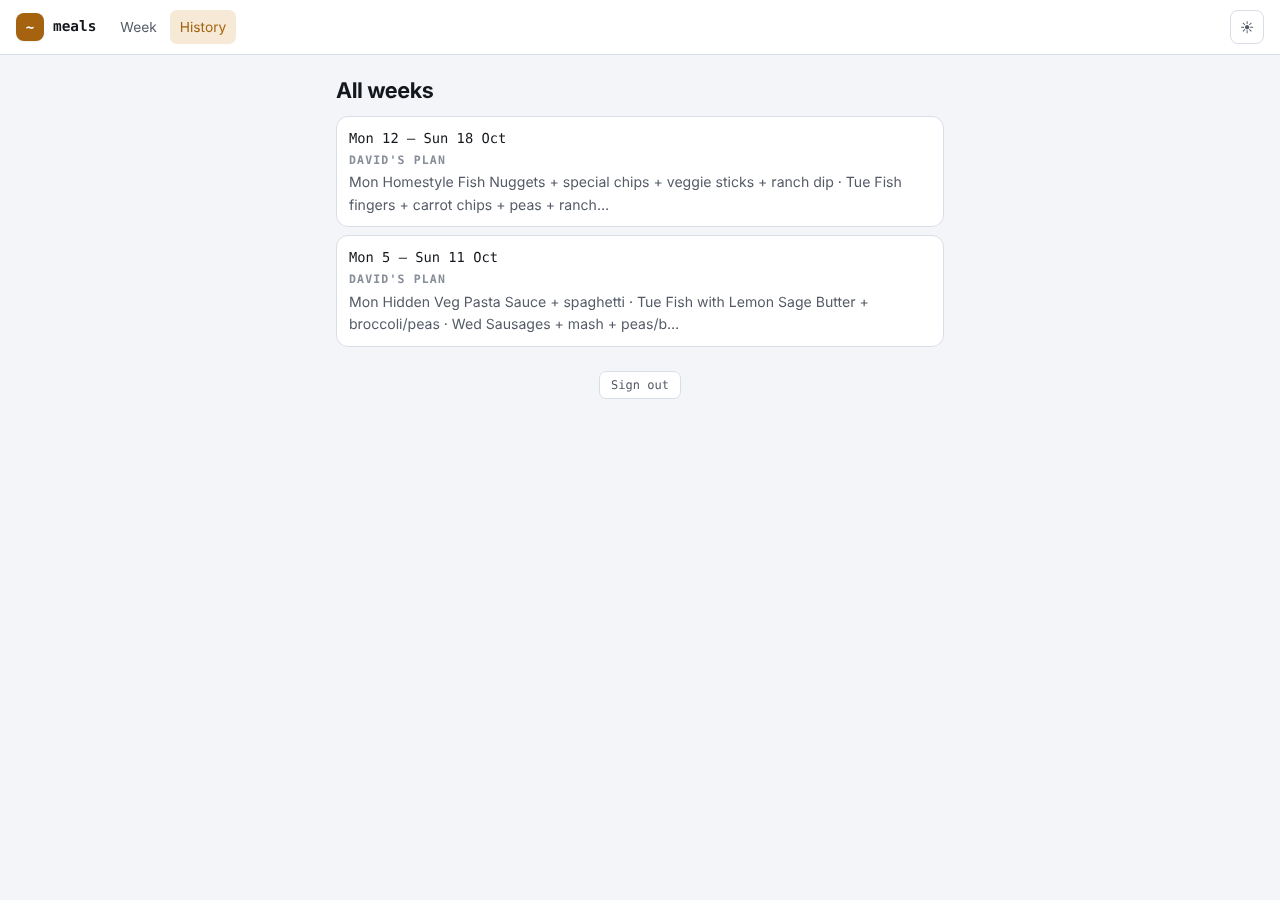
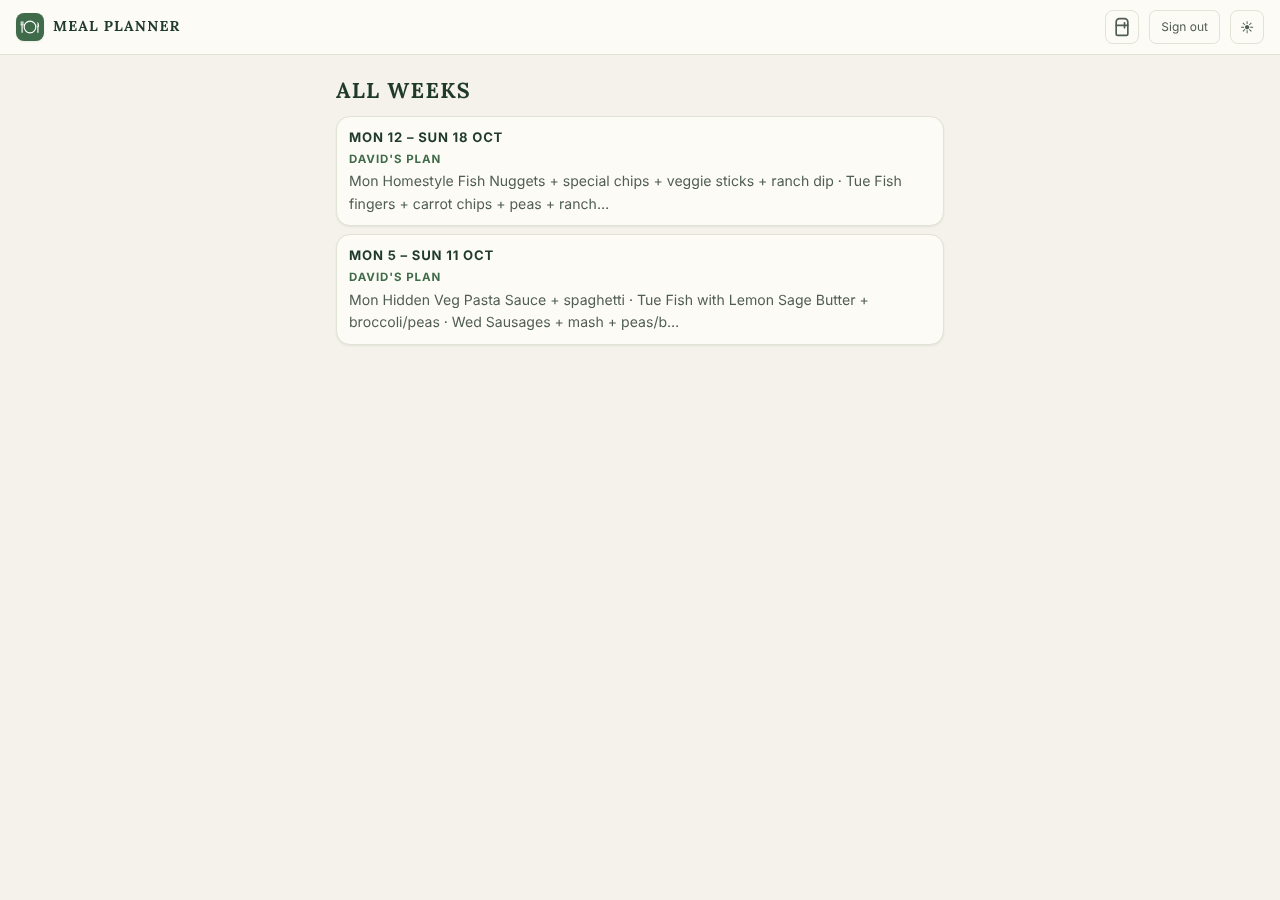
Restyle the viewer in Lisa's Nourished Family Table look (v0.11.0)
Cream paper, sage and peach panels, deep green Lora headings and
olive-branch accents, matching her printed plans and the shared plan
image. Done by re-pointing the design-system tokens in app.css; the
vendored winterbottom.css is unchanged. Botanical shapes are static SVG
masks (the CSP refuses data: images) and Lora Bold is served and
precached for offline use. Screenshots regenerated.

Claude-Session: https://claude.ai/code/session_01LwJrHr9XddzKmJnudgHiBY

diff --git a/src/web/static/app.css b/src/web/static/app.css
@@ -327,3 +327,240 @@ details.mp-original summary {
   padding-left: 1.2em;
   overflow-wrap: anywhere;
 }
+
+/* =========================================================================
+   Nourished Family Table: Lisa's look, from her printed plans and recipe
+   cards. Cream paper, sage and peach panels, deep green serif headings and
+   olive-branch sprigs. It re-points the design system's tokens (so every
+   wb-* component follows) and adds the few touches the tokens can't carry.
+   The palette matches the shared plan image (src/web/week-image.js).
+   ========================================================================= */
+
+/* Lora Bold, the serif the plan image already uses (assets/fonts, OFL). */
+@font-face {
+  font-family: "Lora";
+  src: url("fonts/Lora-Bold.woff") format("woff");
+  font-weight: 700;
+  font-style: normal;
+  font-display: swap;
+}
+
+:root {
+  --bg: #f4f2ea;
+  --surface: #fcfbf6;
+  --surface-2: #eeece2;
+  --border: #e1e3d6;
+  --ink: #1f3a2b;
+  --ink-2: #4f5d52;
+  --ink-3: #87917f;
+  --accent: #3f6b4a;
+  --accent-hover: #335a3d;
+  --accent-ink: #ffffff;
+  --accent-tint: #e3eadb;
+  --nft-sage: #dde6d3;
+  --nft-peach: #f6e1d0;
+  --nft-peach-ink: #8a4f2c;
+  --font-serif: "Lora", Georgia, "Times New Roman", serif;
+  --r-sm: 10px;
+  --r: 14px;
+  --r-lg: 18px;
+  --shadow: 0 1px 2px rgba(31, 58, 43, 0.06), 0 8px 24px rgba(31, 58, 43, 0.06);
+  --shadow-sm: 0 1px 2px rgba(31, 58, 43, 0.08);
+}
+@media (prefers-color-scheme: dark) {
+  :root:not([data-theme="light"]) {
+    --bg: #141a15;
+    --surface: #1b231d;
+    --surface-2: #222b23;
+    --border: #2f3a31;
+    --ink: #e8ece2;
+    --ink-2: #b2bcaf;
+    --ink-3: #7f8a7c;
+    --accent: #a8c49a;
+    --accent-hover: #bcd4ae;
+    --accent-ink: #15200f;
+    --accent-tint: #243225;
+    --nft-sage: #26332a;
+    --nft-peach: #3a2c22;
+    --nft-peach-ink: #e9b893;
+  }
+}
+:root[data-theme="dark"] {
+  --bg: #141a15;
+  --surface: #1b231d;
+  --surface-2: #222b23;
+  --border: #2f3a31;
+  --ink: #e8ece2;
+  --ink-2: #b2bcaf;
+  --ink-3: #7f8a7c;
+  --accent: #a8c49a;
+  --accent-hover: #bcd4ae;
+  --accent-ink: #15200f;
+  --accent-tint: #243225;
+  --nft-sage: #26332a;
+  --nft-peach: #3a2c22;
+  --nft-peach-ink: #e9b893;
+}
+
+/* Botanical shapes (static/botanical/), drawn as masks so they take the
+   theme's colours. Files, not data: URLs, which the CSP's img-src refuses. */
+:root {
+  --nft-branch: url("botanical/branch.svg");
+  --nft-divider: url("botanical/divider.svg");
+  --nft-sprig: url("botanical/sprig.svg");
+}
+
+/* Header: cream bar, serif uppercase name, sage mark. */
+.wb-appbar {
+  background: var(--surface);
+}
+.wb-brand {
+  font-family: var(--font-serif);
+  font-weight: 700;
+  text-transform: uppercase;
+  letter-spacing: 0.08em;
+  color: var(--ink);
+}
+.wb-signout {
+  font-family: var(--font-sans);
+}
+
+/* Headings: deep green serif capitals, like WEEK 1 on her plans. */
+h1 {
+  font-family: var(--font-serif);
+  font-weight: 700;
+  text-transform: uppercase;
+  letter-spacing: 0.06em;
+  color: var(--ink);
+}
+
+/* Small labels and pills: sans instead of the system's monospace. */
+.wb-pill {
+  font-family: var(--font-sans);
+  font-weight: 600;
+}
+.wb-eyebrow,
+.wb-label {
+  font-family: var(--font-sans);
+  font-weight: 700;
+  letter-spacing: 0.08em;
+  color: var(--accent);
+}
+
+/* The week title on a painted sage band, an olive branch in the top corner
+   and a heart rule beneath. */
+.mp-week__head {
+  position: relative;
+  text-align: center;
+  padding-top: 28px;
+}
+.mp-week__head::before {
+  content: "";
+  position: absolute;
+  top: -12px;
+  right: -12px;
+  width: 88px;
+  height: 48px;
+  background: var(--accent);
+  opacity: 0.75;
+  -webkit-mask: var(--nft-branch) no-repeat center / contain;
+  mask: var(--nft-branch) no-repeat center / contain;
+  transform: scaleX(-1);
+  pointer-events: none;
+}
+.mp-week__head h1 {
+  display: inline-block;
+  font-size: 1.2rem;
+  padding: 7px 22px;
+  background: var(--nft-sage);
+  border-radius: 46% 54% 42% 58% / 62% 44% 56% 38%;
+}
+.mp-week__meta::before {
+  content: "";
+  flex-basis: 100%;
+  height: 14px;
+  margin: 2px 0 6px;
+  background: var(--accent);
+  -webkit-mask: var(--nft-divider) no-repeat center / 150px 14px;
+  mask: var(--nft-divider) no-repeat center / 150px 14px;
+}
+
+/* Days: soft paper cards; the day name in bold capitals. */
+.mp-day {
+  border-color: var(--border);
+  padding: 12px 14px;
+  box-shadow: var(--shadow-sm);
+}
+.mp-day--today {
+  background: var(--nft-sage);
+  border-color: var(--accent);
+}
+.mp-day__date {
+  font-family: var(--font-sans);
+  font-size: 0.78rem;
+  font-weight: 700;
+  text-transform: uppercase;
+  letter-spacing: 0.08em;
+  color: var(--ink);
+}
+.mp-day--today .mp-day__date {
+  color: var(--ink);
+}
+.mp-day__dinner {
+  color: var(--ink);
+}
+.mp-day__dinner--none {
+  color: var(--ink-3);
+}
+.mp-day__img {
+  border: 2px solid var(--surface);
+  box-shadow: var(--shadow-sm);
+}
+
+/* Prep and notes: tinted panels with a sprig, like her WEEK NOTES boxes.
+   The first is sage, a second one peach. */
+section.mp-block {
+  position: relative;
+  background: var(--nft-sage);
+  border-radius: var(--r);
+  padding: 14px 52px 14px 16px;
+}
+section.mp-block + section.mp-block {
+  background: var(--nft-peach);
+}
+section.mp-block + section.mp-block h2 {
+  color: var(--nft-peach-ink);
+}
+section.mp-block::after {
+  content: "";
+  position: absolute;
+  right: 12px;
+  bottom: 10px;
+  width: 30px;
+  height: 36px;
+  background: var(--accent);
+  opacity: 0.55;
+  -webkit-mask: var(--nft-sprig) no-repeat center / contain;
+  mask: var(--nft-sprig) no-repeat center / contain;
+}
+section.mp-block .mp-pre {
+  color: var(--ink);
+}
+
+/* Empty week and other notices: cream card with a sage dashed edge. */
+.mp-empty {
+  border-color: color-mix(in srgb, var(--accent) 35%, var(--border));
+}
+
+/* All weeks list: the dates as bold capitals, like the day names. */
+.mp-history__when {
+  font-family: var(--font-sans);
+  font-weight: 700;
+  text-transform: uppercase;
+  letter-spacing: 0.06em;
+  font-size: 0.82rem;
+  color: var(--ink);
+}
+.mp-history__list a {
+  box-shadow: var(--shadow-sm);
+}

diff --git a/src/web/render.js b/src/web/render.js
@@ -32,9 +32,9 @@ function layout({
 <meta charset="utf-8">
 <meta name="viewport" content="width=device-width, initial-scale=1, viewport-fit=cover">
 <title>${title}</title>
-<!-- Browser chrome colour: the design system's --bg values (meta tags cannot read CSS tokens). -->
-<meta name="theme-color" content="#f3f5f8" media="(prefers-color-scheme: light)">
-<meta name="theme-color" content="#0c0e12" media="(prefers-color-scheme: dark)">
+<!-- Browser chrome colour: the --bg values in app.css (meta tags cannot read CSS tokens). -->
+<meta name="theme-color" content="#f4f2ea" media="(prefers-color-scheme: light)">
+<meta name="theme-color" content="#141a15" media="(prefers-color-scheme: dark)">
 <meta name="apple-mobile-web-app-capable" content="yes">
 <meta name="apple-mobile-web-app-title" content="Meals">
 <link rel="manifest" href="/manifest.webmanifest">

diff --git a/src/viewer-app.js b/src/viewer-app.js
@@ -65,8 +65,8 @@ export const MANIFEST = {
   start_url: "/",
   scope: "/",
   display: "standalone",
-  background_color: "#f3f5f8",
-  theme_color: "#f3f5f8",
+  background_color: "#f4f2ea",
+  theme_color: "#f4f2ea",
   icons: [
     { src: "/icons/icon-192.png", sizes: "192x192", type: "image/png" },
     // Full-bleed with the drawing inside the safe zone, so Android can

diff --git a/src/web/static/sw.js b/src/web/static/sw.js
@@ -23,6 +23,10 @@ const PRECACHE = [
     "/static/share.js",
     "/static/offline.js",
   ].map((path) => `${path}?v=${VERSION}`),
+  "/static/fonts/Lora-Bold.woff",
+  "/static/botanical/branch.svg",
+  "/static/botanical/divider.svg",
+  "/static/botanical/sprig.svg",
   "/icons/icon-192.png",
 ];
 // Also saved at install, best effort, so they work offline before a visit.

diff --git a/test/viewer-app.test.js b/test/viewer-app.test.js
@@ -164,6 +164,7 @@ describe("installable app", () => {
       "winterbottom-theme.js",
       "app.css",
       "swipe.js",
+      "fonts/Lora-Bold.woff",
     ]) {
       expect((await get(`${viewer}/static/${f}`)).status).toBe(200);
     }
